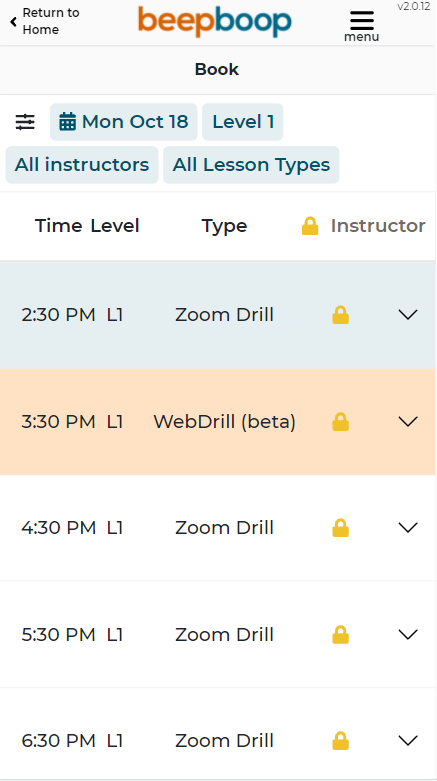
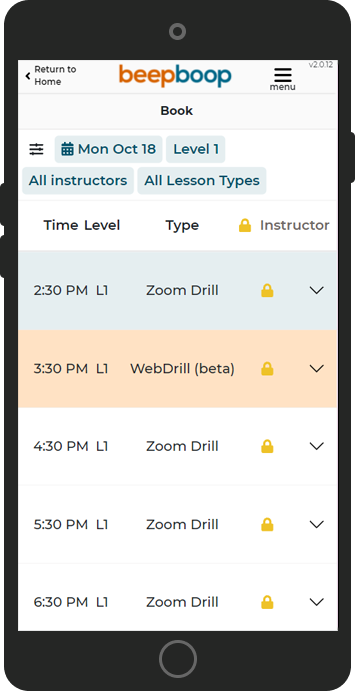
added new images for mockups on landing

diff --git a/src/pages/Landing/Landing.js b/src/pages/Landing/Landing.js
@@ -28,8 +28,8 @@ function Landing() {
                     <h1>Most recent work: Beepboop Mobile-first Redesign</h1>
                 </div>
                 <div className="landing_frame_container">
-                    <PhoneFrame imageSrc={home_mobile_redesign} imageAlt="screenshot" />
-                    <PhoneFrame imageSrc={book_mobile_redesign} imageAlt="screenshot" />
+                    <img className="phone_frame_image" src={home_mobile_redesign} alt={"screenshot"} />
+                    <img className="phone_frame_image" src={book_mobile_redesign} alt={"screenshot"} />
                 </div>
             </div>
         </>
